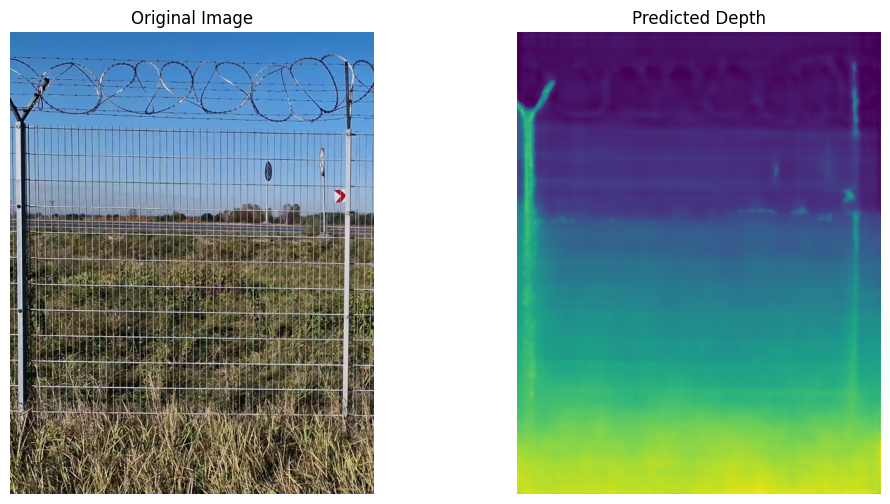
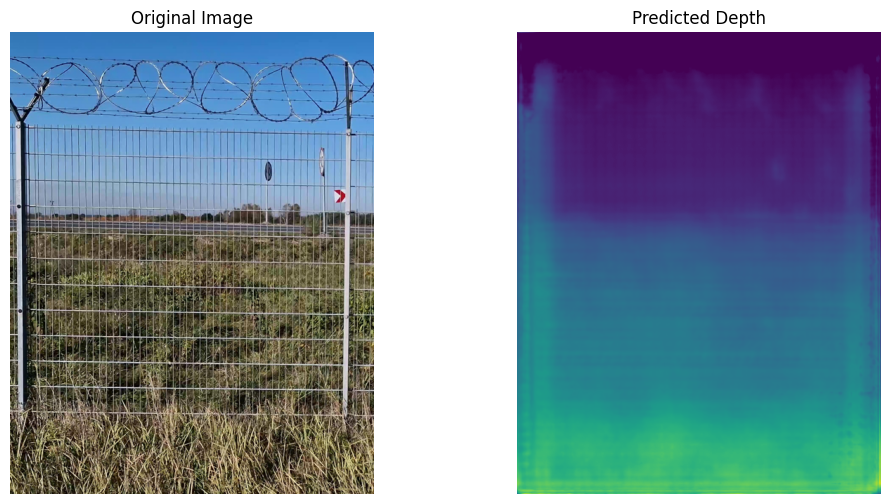
add saving model in hf format

diff --git a/depth_model_training.py b/depth_model_training.py
@@ -11,14 +11,14 @@ import numpy as np  # Added for array operations
 # Hyperparameters and configurations
 IMAGE_DIR = Path("depth_dataset/images")
 DEPTH_DIR = Path("depth_dataset/depths")
-MODEL_PATH = "saved_models/depth_model_v1.pt"
-HF_MODEL = "LiheYoung/depth-anything-small-hf"
+MODEL_PATH = "saved_models/depth_model_v2"
+HF_MODEL = "LiheYoung/depth-anything-base-hf"
 SAVE_MODEL_PATH = "saved_models"
-SAVE_MODEL_NAME = "depth_model_v1.pt"
+SAVE_MODEL_NAME = "depth_model_v2"
 PRETRAINED = True
 BATCH_SIZE = 1
 LEARNING_RATE = 3e-5
-NUM_EPOCHS = 600
+NUM_EPOCHS = 10
 DEVICE = torch.device("cuda" if torch.cuda.is_available() else "cpu")
 RESULTS_DIR = "results"  # Added visualization directory
 
@@ -63,9 +63,12 @@ def create_dataset(image_dir, depth_dir, processor, batch_size, shuffle=True):
 
 # Load model function (unchanged)
 def load_model(pretrained=True):
-    model = AutoModelForDepthEstimation.from_pretrained(HF_MODEL)
     if pretrained:
-        model.load_state_dict(torch.load(MODEL_PATH))
+        print(f"Loading model from local path: {MODEL_PATH}")
+        model = AutoModelForDepthEstimation.from_pretrained(MODEL_PATH)
+    else:
+        print(f"Loading model from Hugging Face model hub: {HF_MODEL}")
+        model = AutoModelForDepthEstimation.from_pretrained(HF_MODEL)
     model.to(DEVICE)
     return model
 
@@ -73,7 +76,7 @@ def load_model(pretrained=True):
 # Save model function (unchanged)
 def save_model(model, save_path, save_model_name):
     model_save_path = os.path.join(save_path, save_model_name)
-    torch.save(model.state_dict(), model_save_path)
+    model.save_pretrained(model_save_path)
     print(f"Model saved to {model_save_path}")
 
 
@@ -117,7 +120,7 @@ def train(
 
 
 # Added visualization function
-def visualize_results(model, dataloader, processor, save_dir):
+def visualize_results(model, dataloader, processor, save_dir, save_model_name):
     model.eval()
     for batch_idx, batch in enumerate(dataloader):
         pixel_values = batch["pixel_values"].to(DEVICE)
@@ -150,13 +153,15 @@ def visualize_results(model, dataloader, processor, save_dir):
 
         # Save plot
         img_name = dataloader.dataset.image_files[batch_idx].stem
-        plt.savefig(f"{save_dir}/comparison_{img_name}.png", bbox_inches="tight")
+        save_path = Path(save_dir) / save_model_name / f"{img_name}.png"
+        save_path.parent.mkdir(parents=True, exist_ok=True)
+        plt.savefig(str(save_path), bbox_inches="tight")
         plt.close()
 
 
 # Main execution block with visualization
 if __name__ == "__main__":
-    processor = AutoImageProcessor.from_pretrained(HF_MODEL)
+    processor = AutoImageProcessor.from_pretrained(HF_MODEL, use_fast=True)
     train_loader = create_dataset(IMAGE_DIR, DEPTH_DIR, processor, BATCH_SIZE)
     model = load_model(PRETRAINED)
 
@@ -165,7 +170,7 @@ if __name__ == "__main__":
     )
 
     # Load best model for visualization
-    model.load_state_dict(torch.load(os.path.join(SAVE_MODEL_PATH, SAVE_MODEL_NAME)))
+    model = AutoModelForDepthEstimation.from_pretrained(MODEL_PATH)
 
     # Create visualization dataloader without shuffling
     vis_loader = create_dataset(
@@ -173,5 +178,5 @@ if __name__ == "__main__":
     )
 
     # Generate and save visualizations
-    visualize_results(model, vis_loader, processor, RESULTS_DIR)
+    visualize_results(model, vis_loader, processor, RESULTS_DIR, SAVE_MODEL_NAME)
     print(f"Visualizations saved to {RESULTS_DIR} directory")
